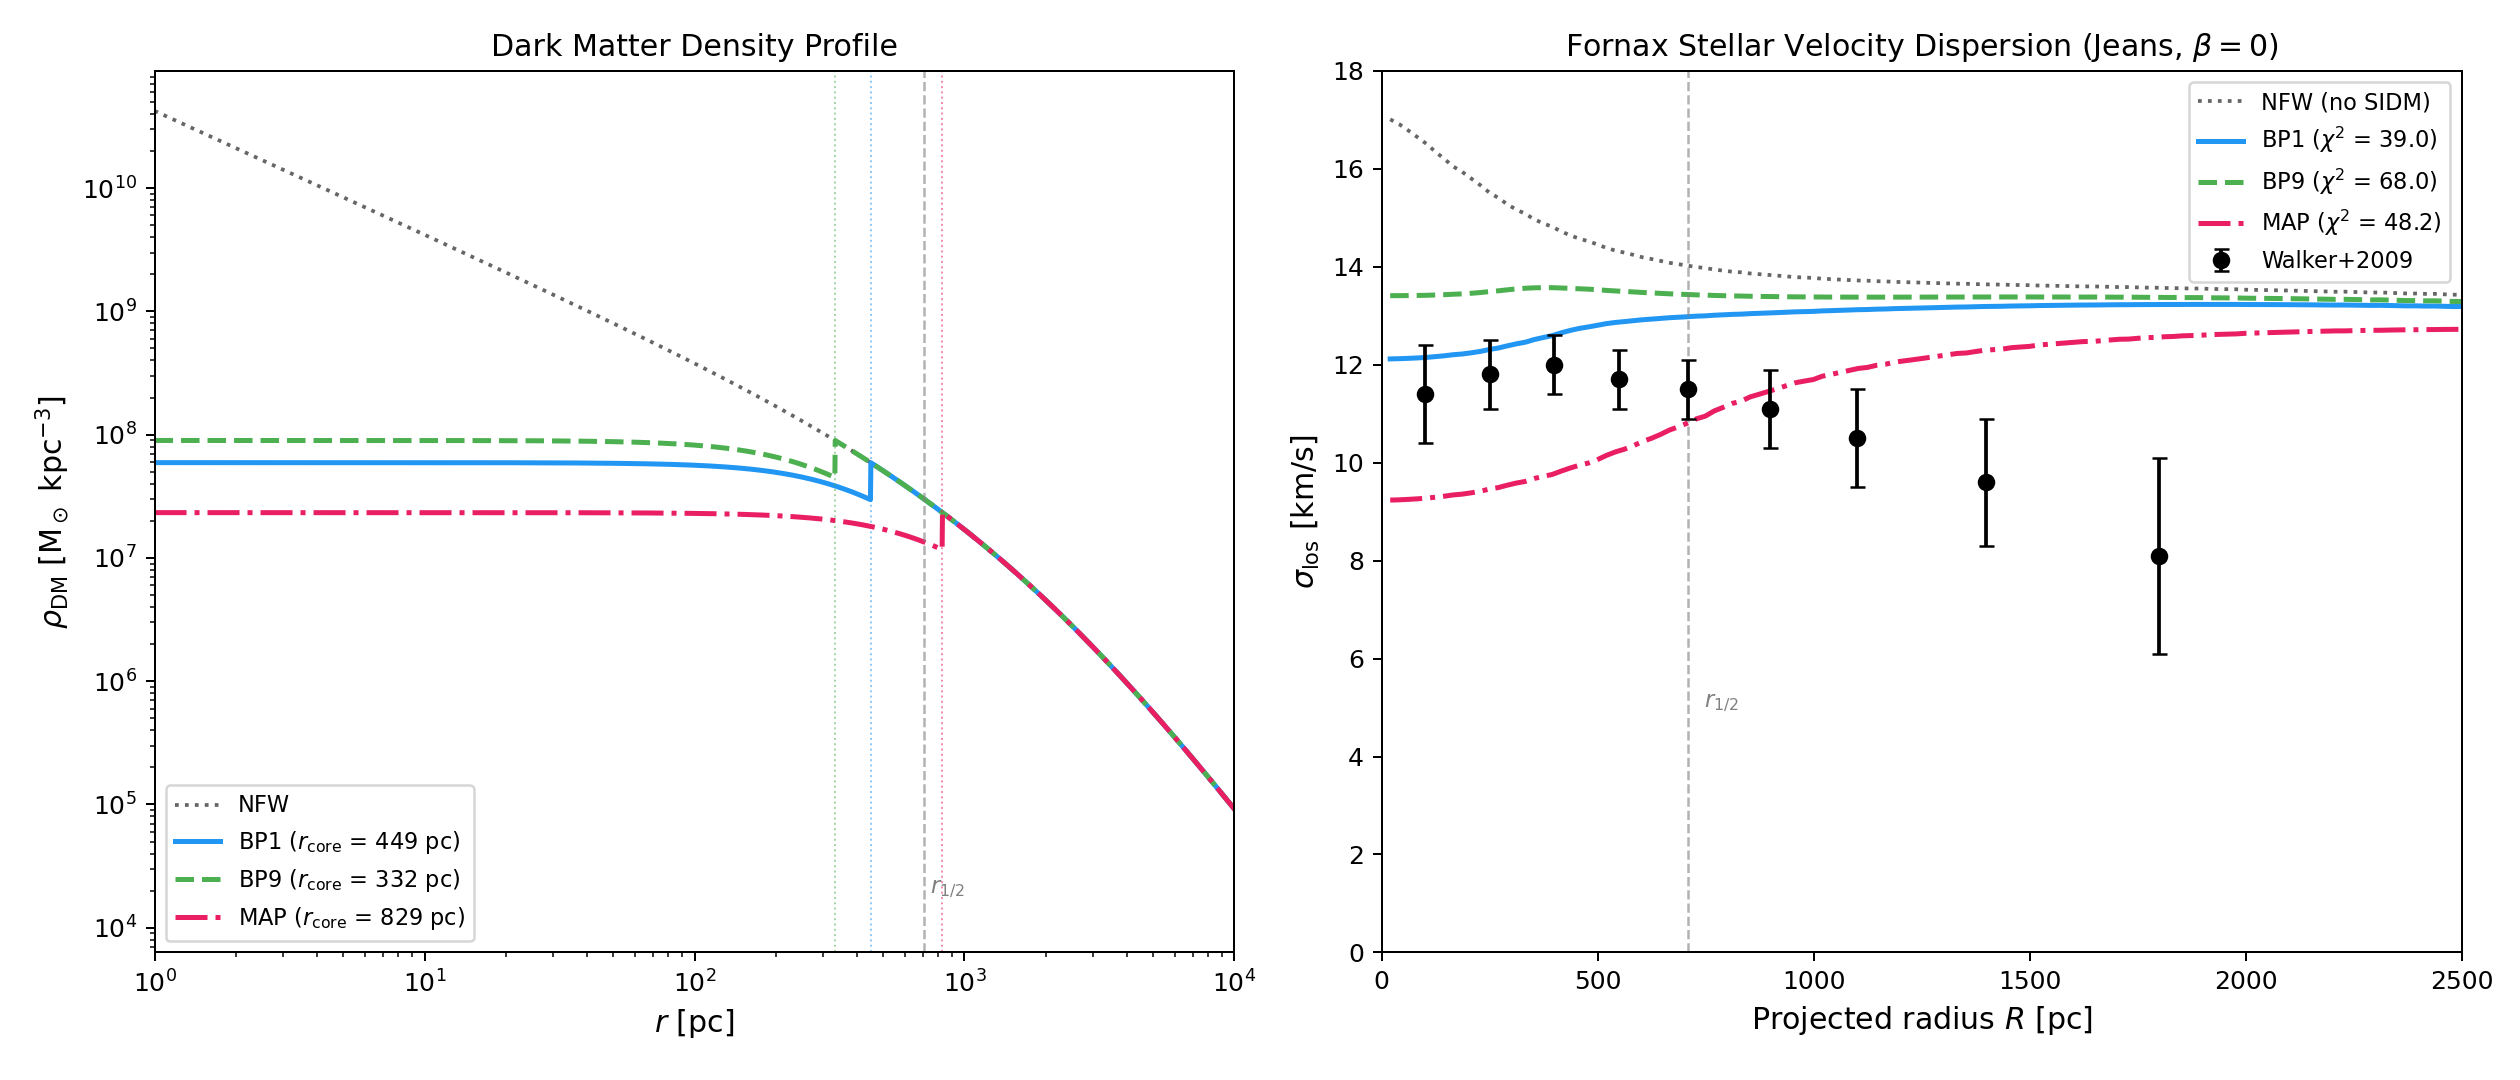
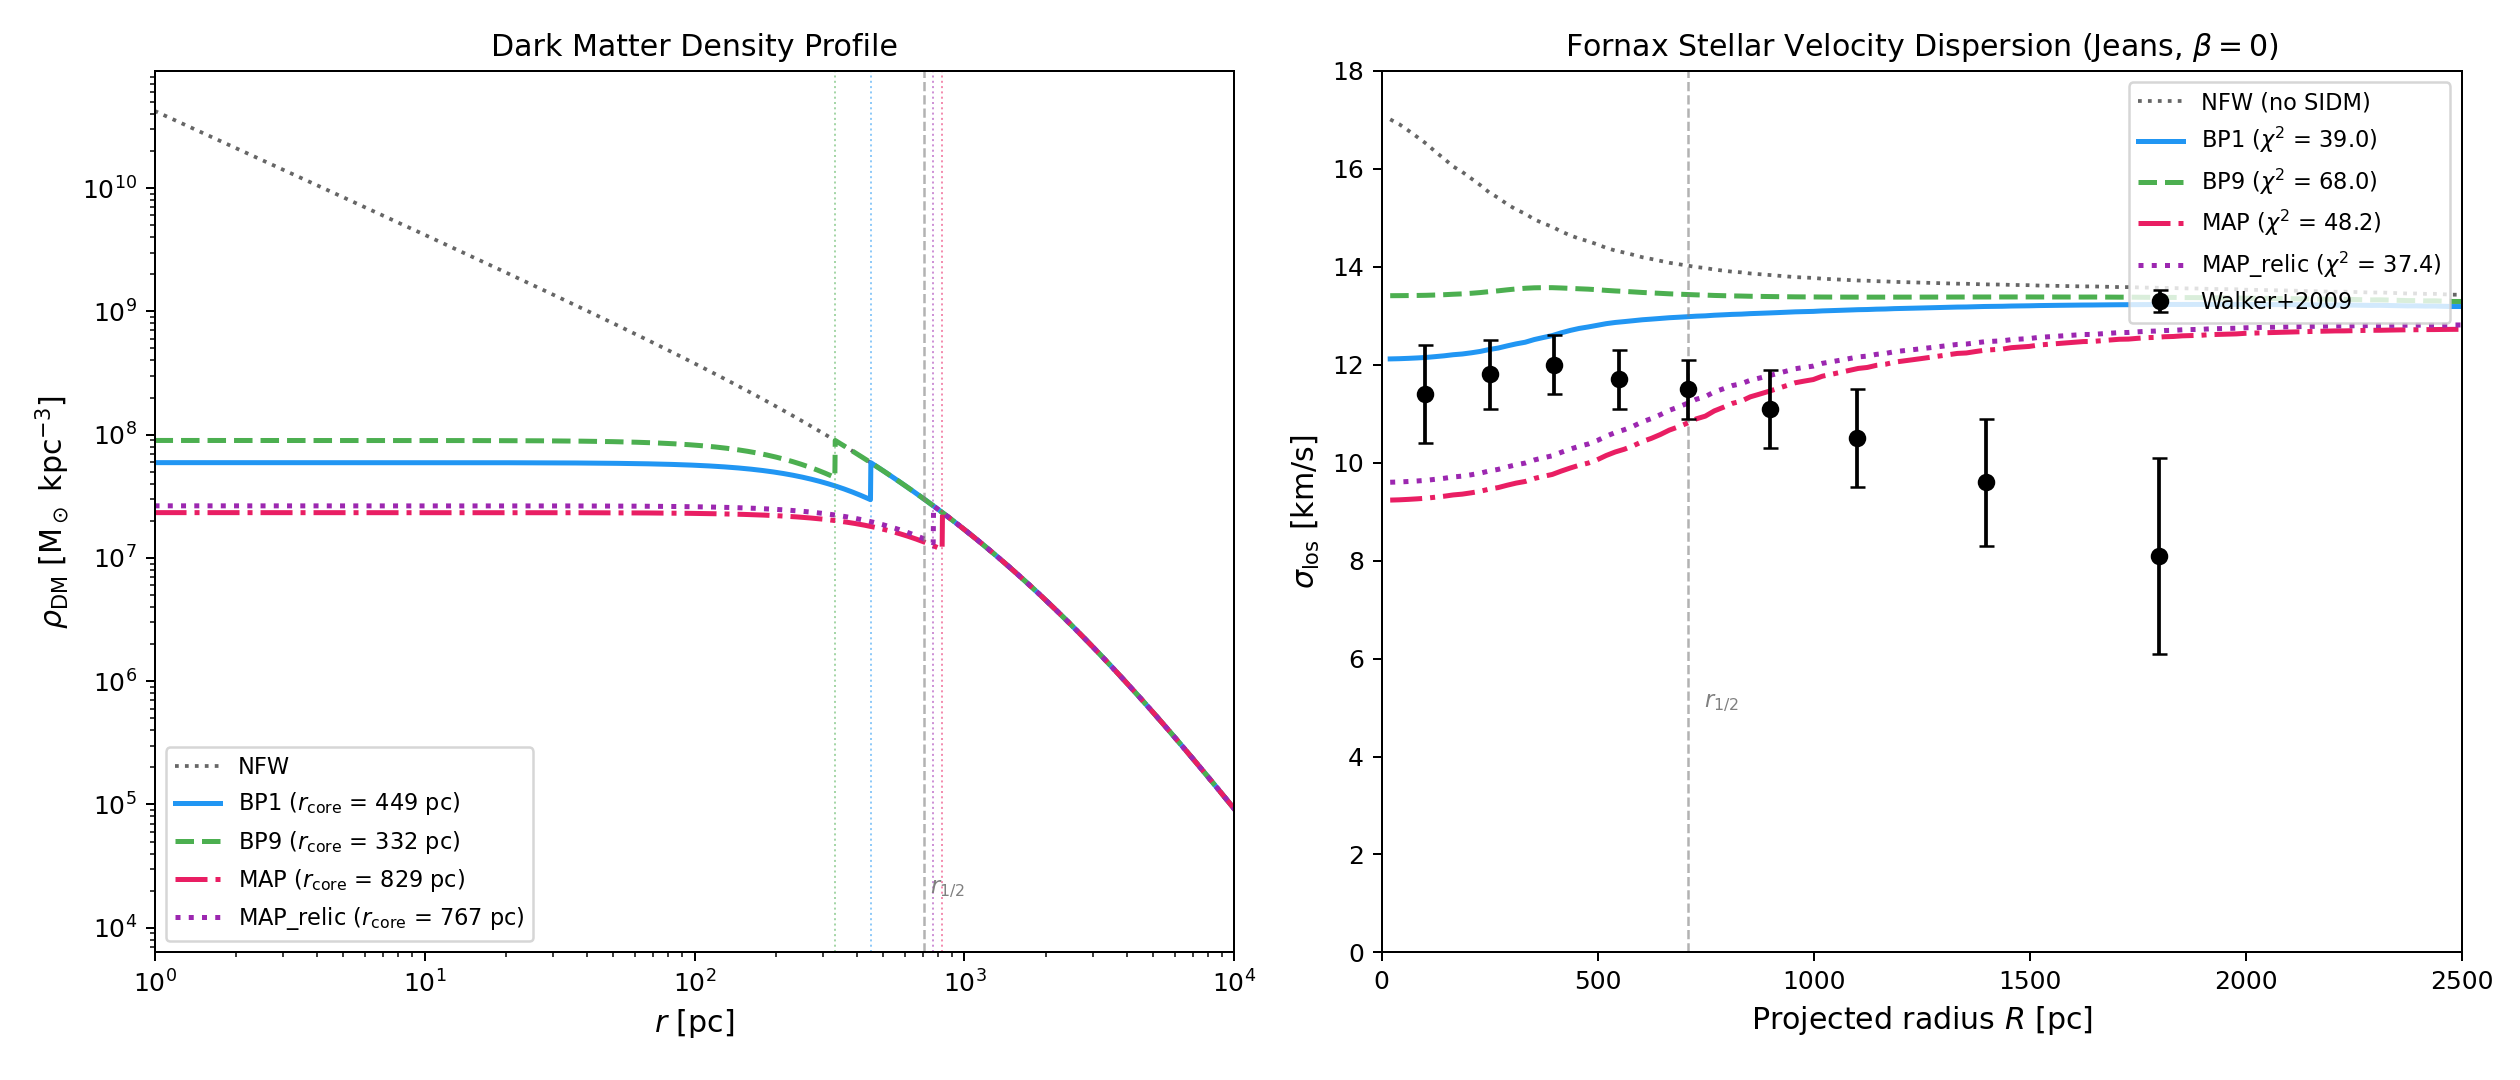
feat: add MAP_relic benchmark (alpha=4.523e-3, relic-corrected)
- Added MAP_relic (Omega h^2 = 0.120) to 8 config.json files
- Fixed color/style dicts in 3 fornax_jeans scripts for new BP
- Re-ran all predictions: gravothermal, cluster_offsets, delta_neff,
  fornax_jeans (3 scripts), rotation_curves, resonance_sensitivity
- Key result: MAP_relic is BEST isotropic Fornax fit (chi2=37.4/8)
  MAP_relic+aniso: chi2=3.9/7=0.55 (excellent)
- All cluster constraints PASS, all dSph predictions consistent

Changed region(s): [[0.8357, 0.0611, 0.9905, 0.3056], [0.0929, 0.7944, 0.2167, 0.8861], [0.0619, 0.6722, 0.1857, 0.7639]]

diff --git a/predictions/fornax_jeans/predict_fornax_jeans.py b/predictions/fornax_jeans/predict_fornax_jeans.py
@@ -273,8 +273,8 @@ def main():
 
     # ── SIDM benchmarks ──
     results = []
-    colors = {'BP1': '#2196F3', 'BP9': '#4CAF50', 'MAP': '#E91E63'}
-    styles = {'BP1': '-', 'BP9': '--', 'MAP': '-.'}
+    colors = {'BP1': '#2196F3', 'BP9': '#4CAF50', 'MAP': '#E91E63', 'MAP_relic': '#9C27B0'}
+    styles = {'BP1': '-', 'BP9': '--', 'MAP': '-.', 'MAP_relic': ':'}
 
     for bp in bps:
         label = bp['label']

diff --git a/predictions/fornax_jeans/predict_fornax_jeans_feedback.py b/predictions/fornax_jeans/predict_fornax_jeans_feedback.py
@@ -340,7 +340,7 @@ def main():
     # --- Scenarios C (SIDM only) and D (SIDM + feedback) per benchmark ---
     all_results = []
 
-    colors_bp = {'BP1': '#2196F3', 'BP9': '#4CAF50', 'MAP': '#E91E63'}
+    colors_bp = {'BP1': '#2196F3', 'BP9': '#4CAF50', 'MAP': '#E91E63', 'MAP_relic': '#9C27B0'}
 
     for bp in bps:
         label = bp['label']

diff --git a/predictions/fornax_jeans/predict_fornax_jeans_aniso.py b/predictions/fornax_jeans/predict_fornax_jeans_aniso.py
@@ -337,7 +337,7 @@ def main():
     })
 
     # Per-BP scenarios
-    colors_bp = {'BP1': '#2196F3', 'BP9': '#4CAF50', 'MAP': '#E91E63'}
+    colors_bp = {'BP1': '#2196F3', 'BP9': '#4CAF50', 'MAP': '#E91E63', 'MAP_relic': '#9C27B0'}
     for bp in bps:
         label = bp['label']
         m_chi = bp['m_chi_GeV']
